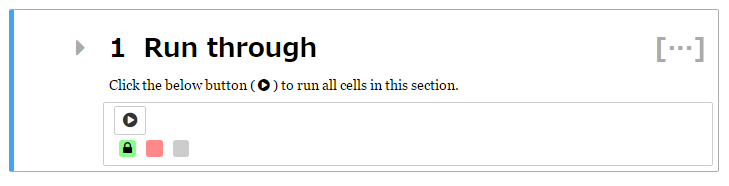
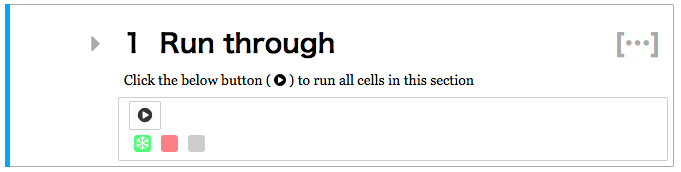
Update README

Changed region(s): [[0.0, 0.0, 1.0, 0.9884], [0.0925, 0.1744, 0.4934, 0.3488]]

diff --git a/lc_run_through/nbextension/main.js b/lc_run_through/nbextension/main.js
@@ -566,7 +566,7 @@ define([
             },
             {
                 id : 'make_normal',
-                label : 'lift restrictions from selected cells',
+                label : 'make selected cells editable',
                 icon : 'fa-unlock-alt',
                 callback : make_editable_selected
             },

diff --git a/README.md b/README.md
@@ -9,9 +9,10 @@ Successfully executed cells are frozen automatically to prevent to re-run.
 
 * [Jupyter Notebook](https://github.com/jupyter/notebook) 4.2.x or 5.x
 * [Collapsible Headings extension](https://github.com/ipython-contrib/jupyter_contrib_nbextensions/tree/master/src/jupyter_contrib_nbextensions/nbextensions/collapsible_headings) is installed and enabled
-* [Freeze extension](https://github.com/ipython-contrib/jupyter_contrib_nbextensions/tree/master/src/jupyter_contrib_nbextensions/nbextensions/freeze) is installed and enabled
 
 #  How to install
+
+## Installing run-through extension
 
 Install the python package
 
@@ -25,6 +26,27 @@ Disable and uninstall this extension
 
     $ jupyter run-through quick-remove
 
+## Updating Font Awesome
+
+The extension uses latest(test with 4.7.0) [Font Awesome](http://fontawesome.io/) icons.
+If you use Jupyter Notebook Server 5.0.0 or earlier, you should update Font Awesome as follows:
+
+1. Retrieve the notebook installed path
+
+    ```
+    $ find /usr -name FontAwesome.otf | grep notebook
+    /usr/local/lib/python2.7/dist-packages/notebook/static/components/font-awesome/fonts/FontAwesome.otf
+    ```
+
+2. Download and Update Font Awesome
+
+    ```
+    cd /tmp/
+    curl -O http://fontawesome.io/assets/font-awesome-4.7.0.zip
+    unzip font-awesome-4.7.0.zip
+    cp font-awesome-4.7.0/fonts/* /usr/local/lib/python2.7/dist-packages/notebook/static/components/font-awesome/fonts/
+    ```
+
 # How to use
 
 ## Collapse headings
@@ -37,8 +59,35 @@ Please see [readme.md of Collapsible Headings ](https://github.com/ipython-contr
 
 The run-through button and summary of outputs appear in a collapsed heading cell.
 
-![Unfreeze Buttons](lc_run_through/nbextension/icon.png)
+![Collapsed View](lc_run_through/nbextension/icon.png)
 
-## Unfreeze buttons
+The code cells which are collapsed appear as colored bricks.
+The colors mean as follows:
+
+- Gray: Not Executed
+- Green: Successfully Executed
+- Pink: Failed
+
+A brick with a snowflake means it is *Frozen* cell as below.
+
+![Expanded View](lc_run_through/nbextension/expanded.png)
+
+The extension provides *Lock*(make the cell read only) and *Freeze*(prevent an re-execution) functions like [Freeze extention ](https://github.com/ipython-contrib/jupyter_contrib_nbextensions/tree/master/src/jupyter_contrib_nbextensions/nbextensions/freeze), but also allows to control the *Locked(Read Only)* and *Frozen* states separately.
+
+## Toolbar
+
+When the extension is enabled, the buttons below appear on the toolbar.
 
 ![Unfreeze Buttons](lc_run_through/nbextension/unfreeze-buttons.png)
+
+For the *Locked(Read Only)* state:
+
+- Make selected cells read-only
+- Make selected cells editable
+
+For the *Frozen* state:
+
+- Freeze selected cells
+- Unfreeze selected cells
+- Unfreeze below in section
+- Unfreeze below all
